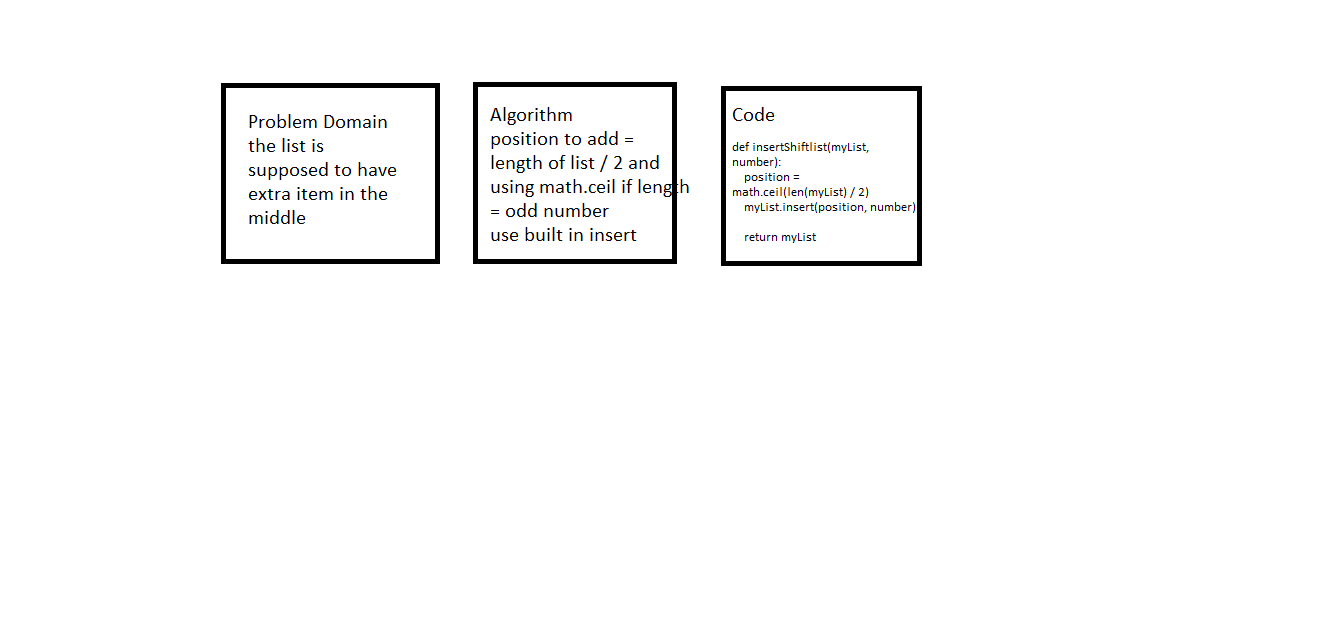
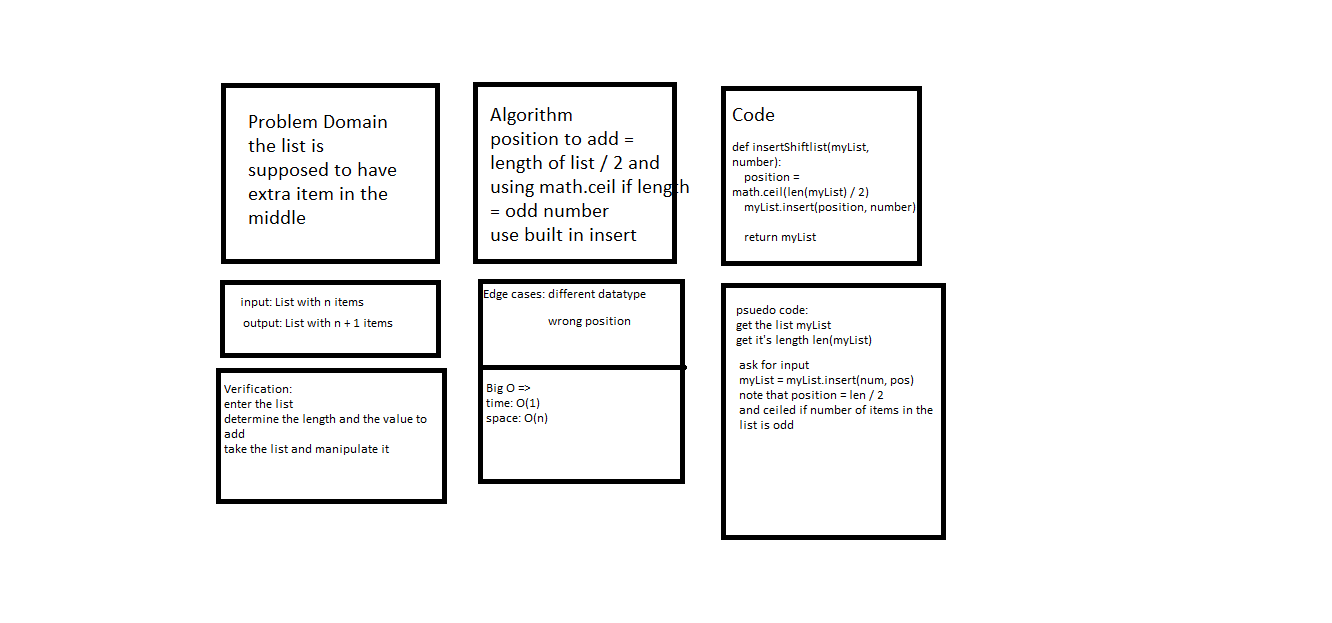
finished code challenge 02

Changed region(s): [[0.1539, 0.427, 0.708, 0.8844]]

diff --git a/python/code_challenges/insertShiftList /insertShiftList.py b/python/code_challenges/insertShiftList /insertShiftList.py
@@ -1,15 +1,26 @@
 import math
 
-def insertShiftlist(myList, number):
+def insertShiftList(myList, number):
     position = math.ceil(len(myList) / 2)
-    myList.insert(position, number)
 
+    newList = [None]*(len(myList) + 1)
+    newList[position] = number
+
+    for index,i in enumerate(myList):
+
+        if newList[index] == None:
+           newList[index]=(i)
+           index += 1
+
+        else:
+            newList[index+1]=(i)
+
+    myList = newList
     return myList
 
 if __name__ == "__main__":
-
-    myList = [1, 2, 3, 4, 6]
-    print(insertShiftlist(myList, 5))
+    myList = [1, 2, 3, 5, 6, 7]
+    print(insertShiftList(myList, 4))
 
 
 
